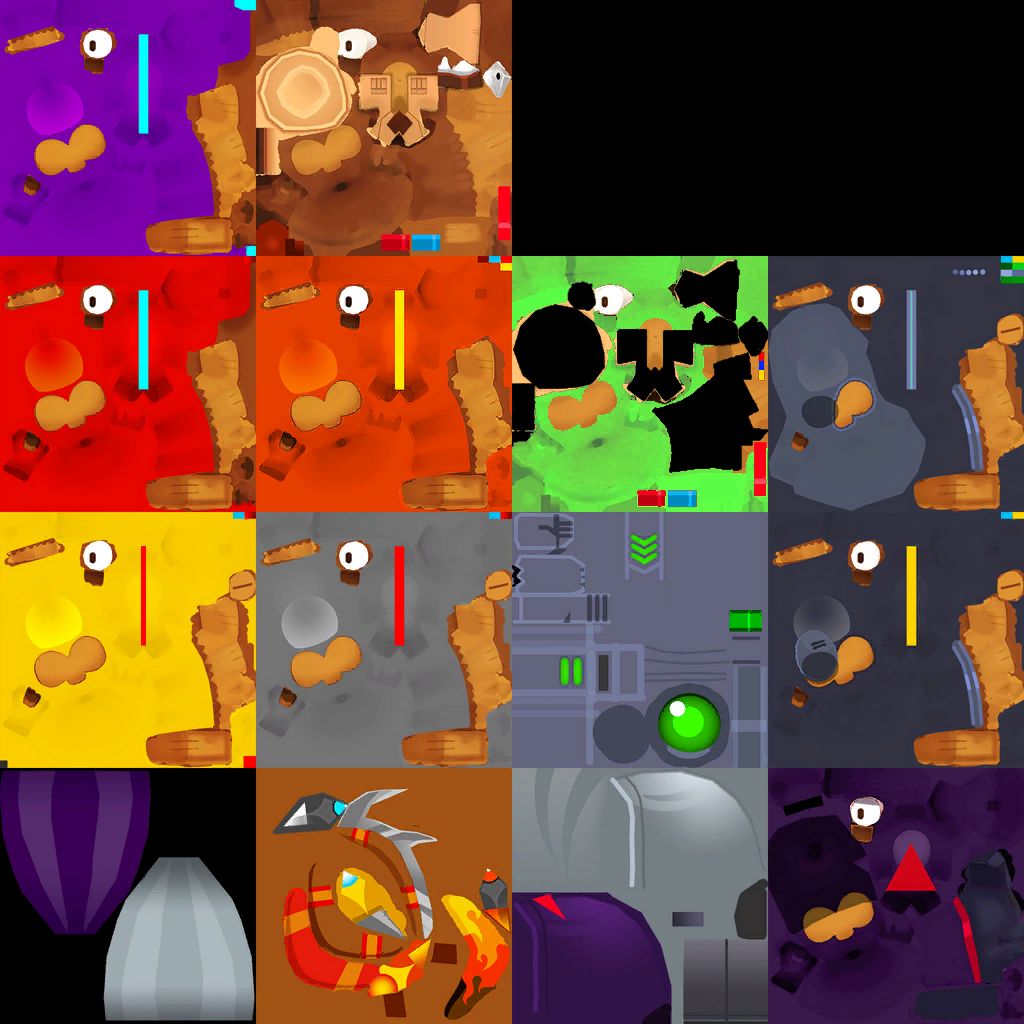
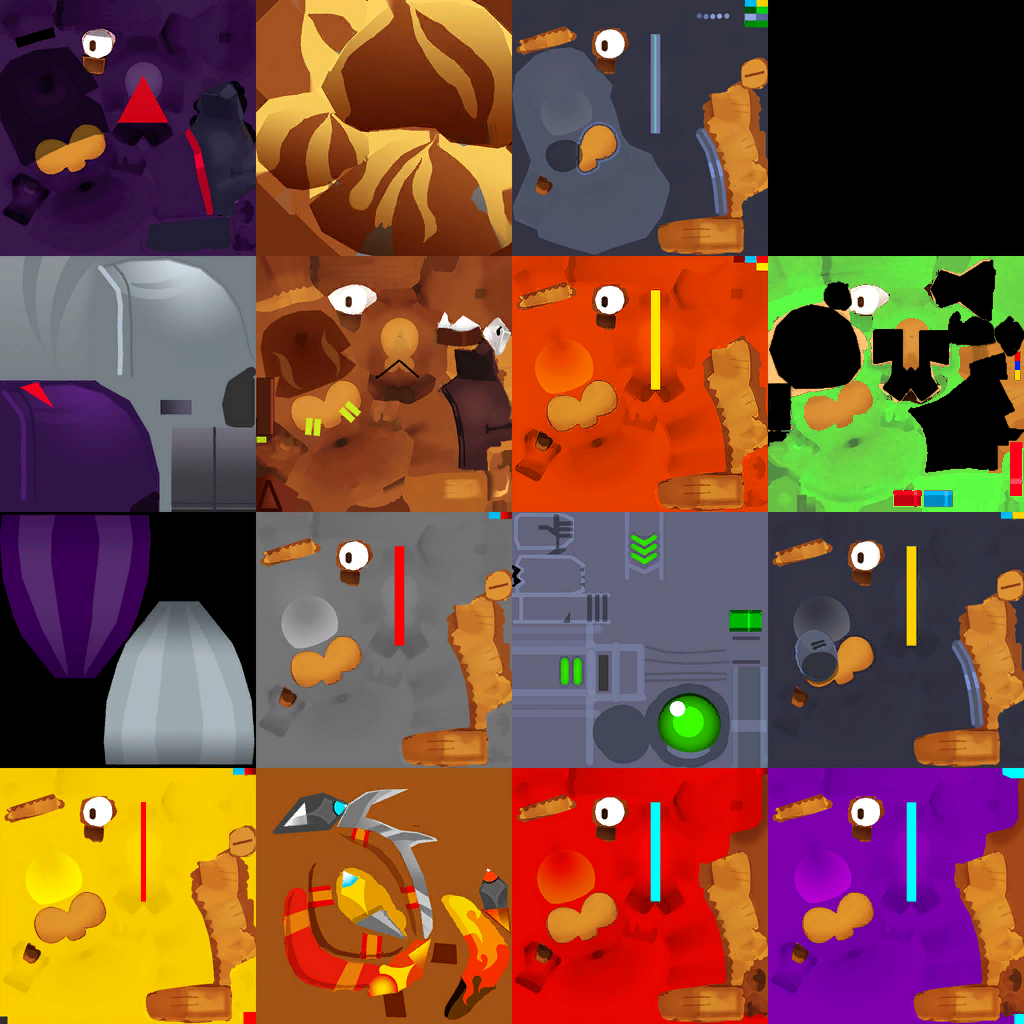
Fix visuals for BTD6 v52

diff --git a/ModHelperData.cs b/ModHelperData.cs
@@ -2,8 +2,8 @@
 
 public static class ModHelperData
 {
-    public const string WorksOnVersion = "51.0";
-    public const string Version = "1.2.17";
+    public const string WorksOnVersion = "52.0";
+    public const string Version = "1.2.18";
     public const string Name = "Card Monkey";
     public const string Description = "Adds in a new custom tower themed around playing cards.";
 

diff --git a/LATEST.md b/LATEST.md
@@ -1,1 +1,1 @@
-- Fixed for BTD6 v51
+- Fixed visuals for BTD6 v52
